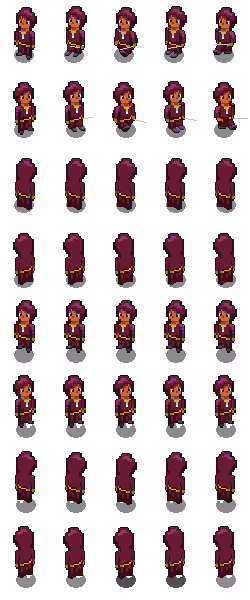
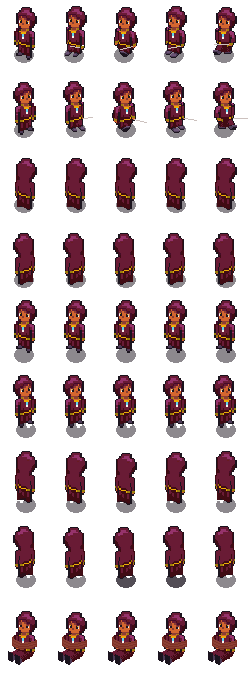
Added player tied up

diff --git a/js/player/warrior.js b/js/player/warrior.js
@@ -103,6 +103,8 @@ function warriorClass() {
 	this.draw = function(){
 		gameCoordToIsoCoord(this.x,this.y);
 
+		this.tiedUp = true; // temporary for testing
+
 		if(this.animateWalk){
 			this.ticks++;
 			if(this.ticks > 3){
@@ -120,6 +122,19 @@ function warriorClass() {
 			}
 			this.offSetWidth = this.frame * this.width;
 		}
+		if(this.tiedUp){
+			this.offSetHeight = this.height * 8;
+			this.ticks++;
+			if(this.ticks > 4){
+				this.frame++;
+				this.ticks = 0;
+				footStepSoundTurn++
+			}
+			if(this.frame > this.frames){
+				this.frame = 0;
+			}
+			this.offSetWidth = this.frame * this.width;
+		}	
 		drawIsoCharacterByFeet(this.myBitmap,isoDrawX, isoDrawY, this);
 		drawIsoCharacterByFeet(playerPositionPic,isoDrawX, isoDrawY, this);
 

diff --git a/js/character.js b/js/character.js
@@ -33,6 +33,7 @@ function CharacterBase (){
 	this.levitationTurn = 0;
 	this.combatEngaged = false;
     this.attackTurn = true;
+	this.tiedUp = false;
 
 	this.reset = function(tileMatch) {
         this.speed = 0;
